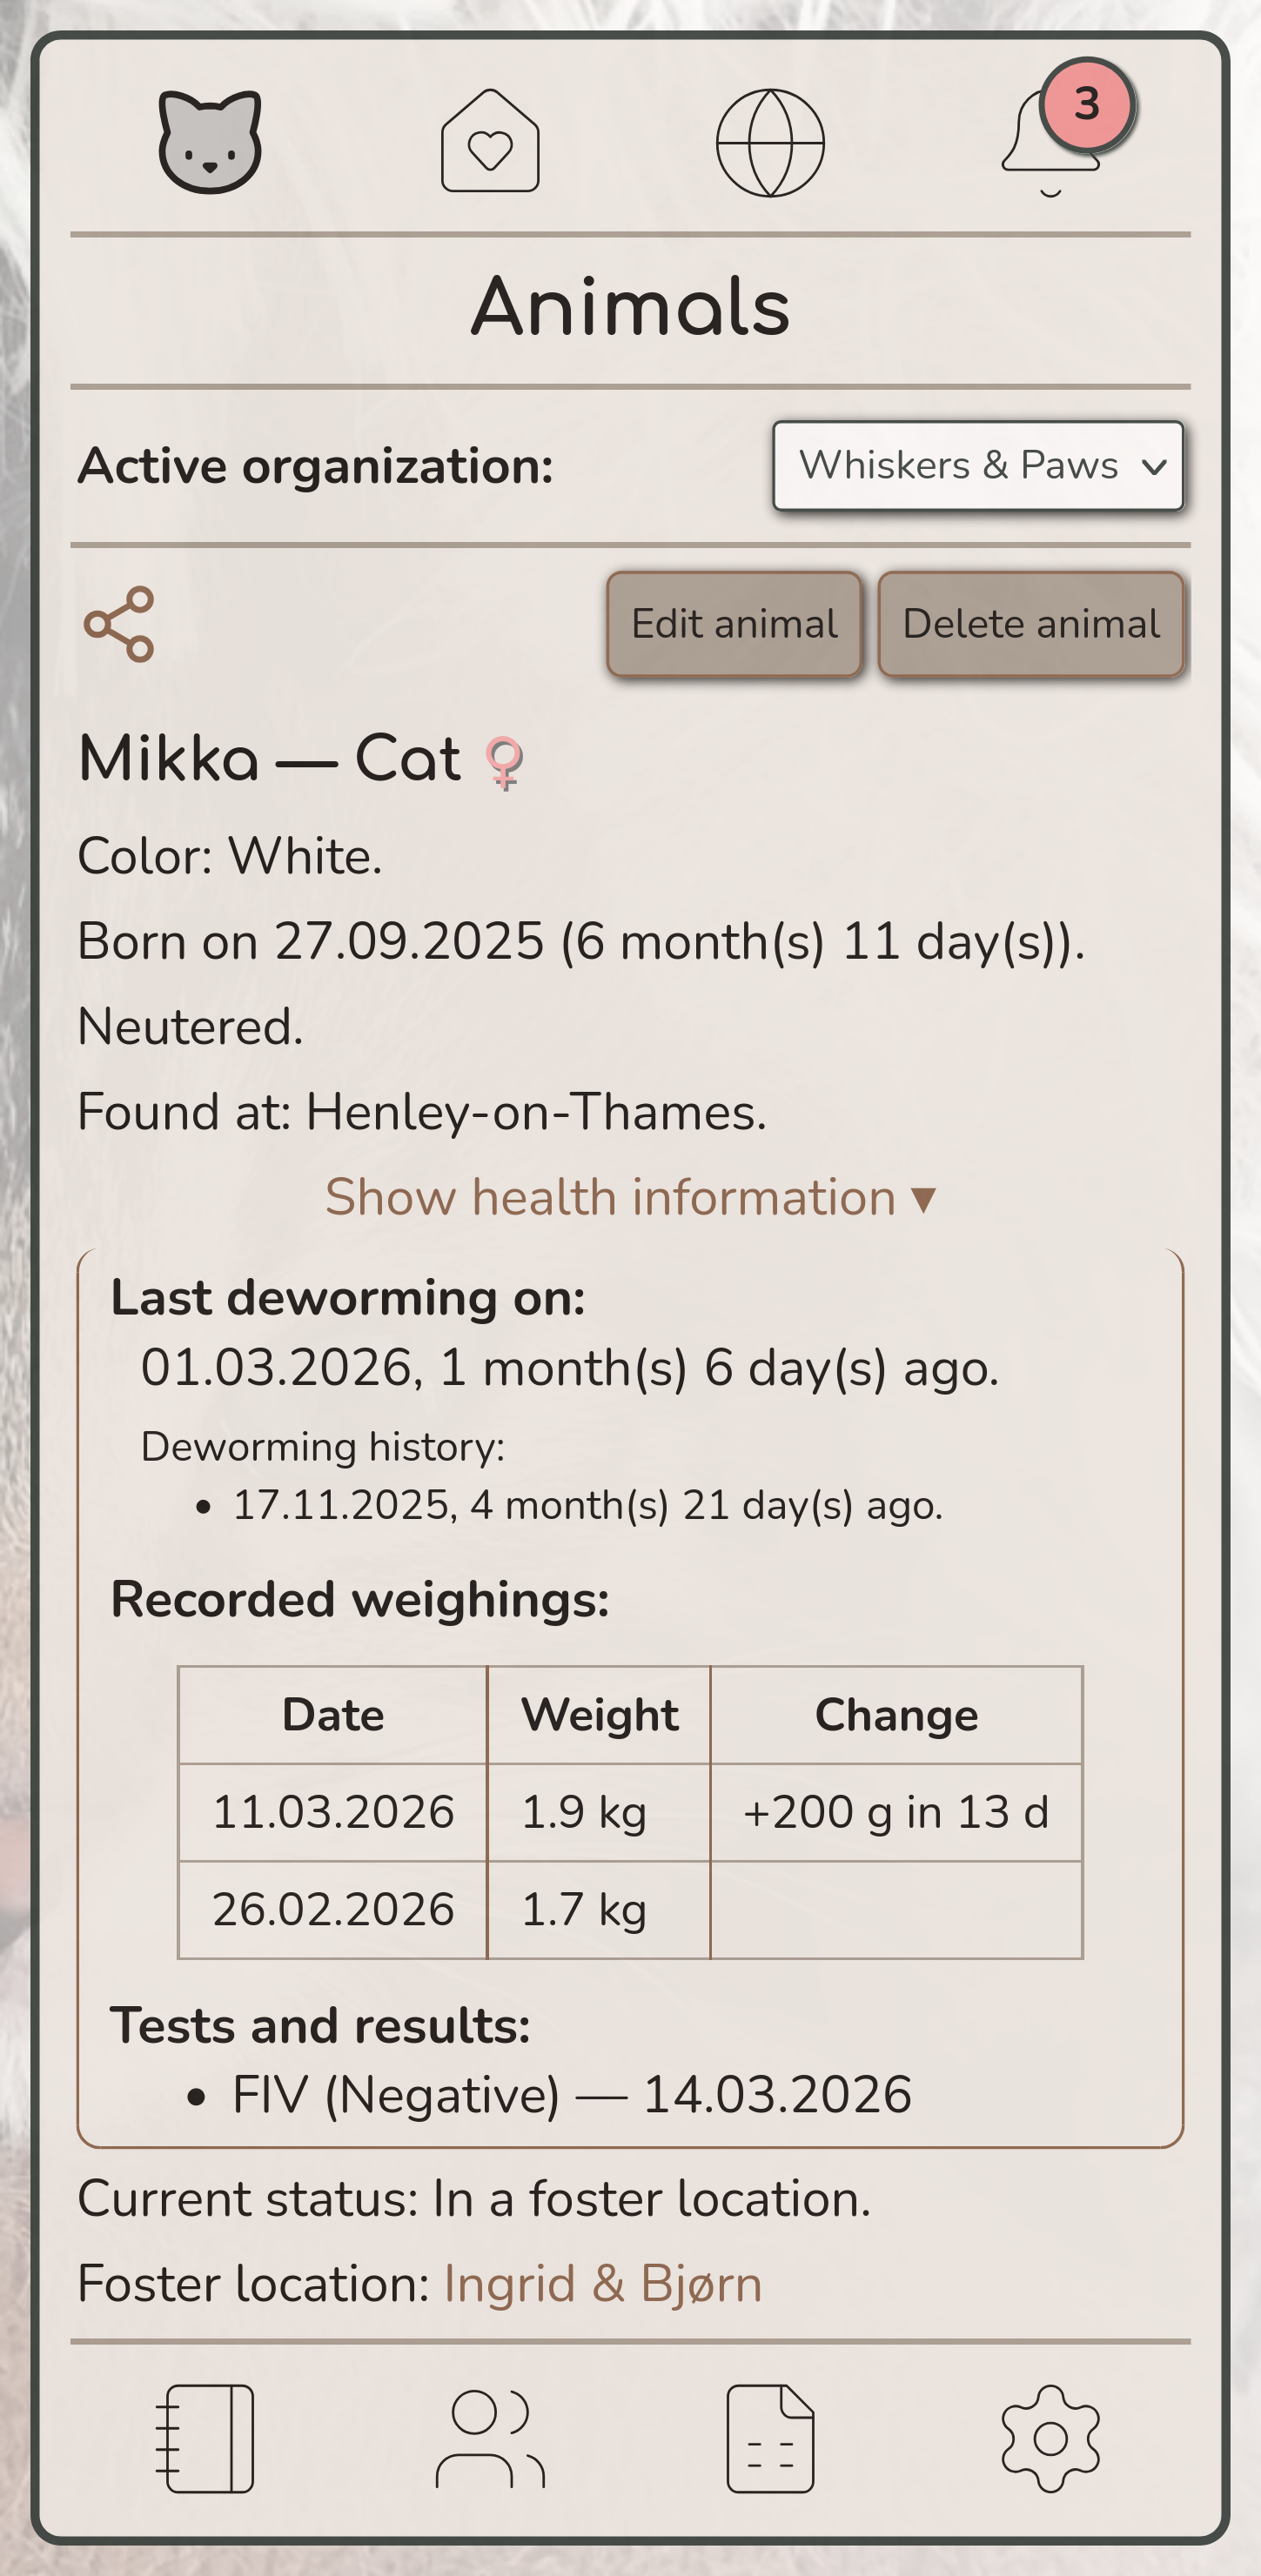
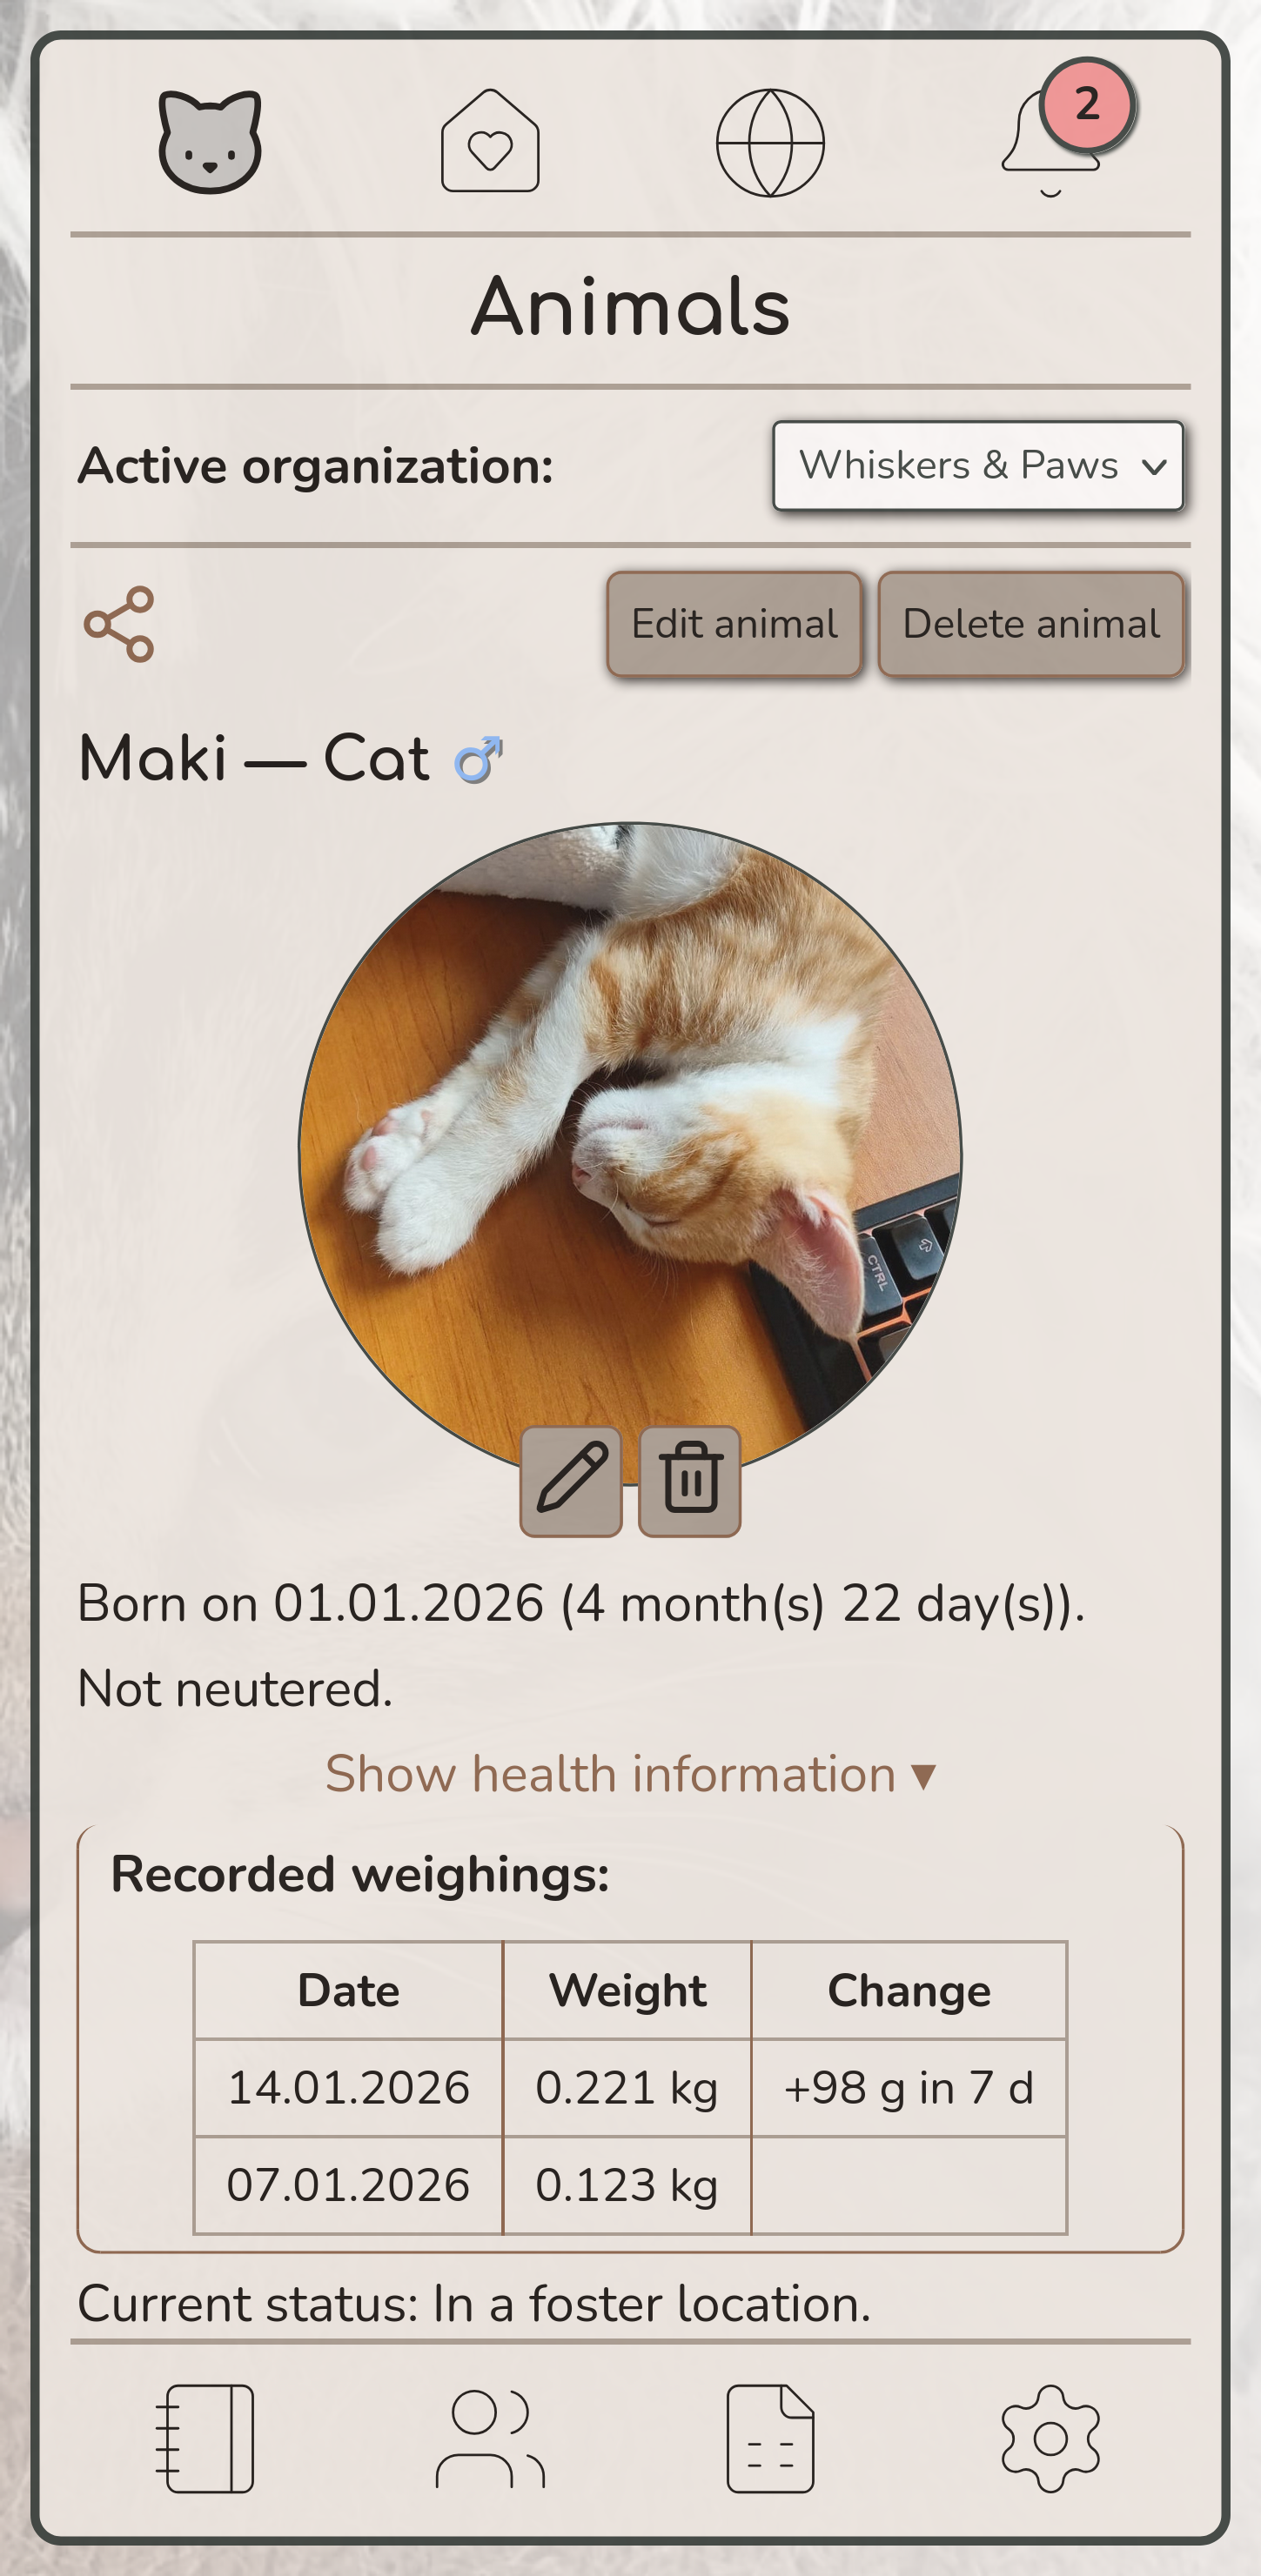
new screenshots for discover page

Changed region(s): [[0.0621, 0.2796, 0.8696, 0.901], [0.7453, 0.3418, 0.8385, 0.3728]]

diff --git a/src/styles/_global.scss b/src/styles/_global.scss
@@ -232,7 +232,7 @@ h3 {
 
 input[type='checkbox'] {
   cursor: pointer;
-  transform: scale(1.5);
+  transform: scale(1.4);
   accent-color: var(--button);
 }
 